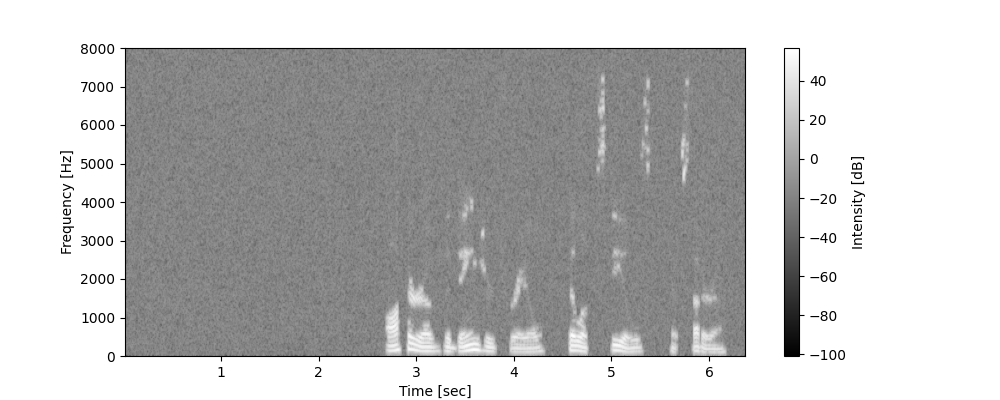
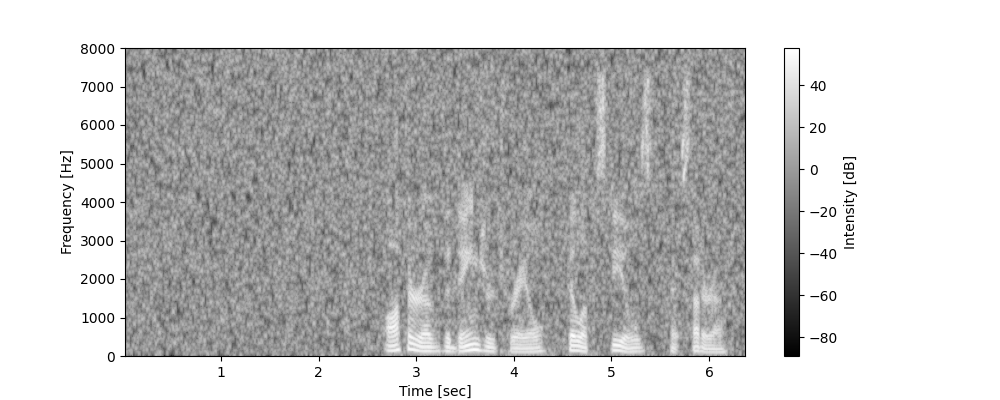
ウィナーフィルターを実装

diff --git a/BodyExpendReserch/開発/ウィーナーフィルタ.py b/BodyExpendReserch/開発/ウィーナーフィルタ.py
@@ -1,0 +1,126 @@
+import wave as wave
+import numpy as np
+import scipy.signal as sp
+import matplotlib.pyplot as plt
+import sounddevice as sd
+#サンプルファイル読み込み
+sample_wave_file = "./CMU_ARCTIC/cmu_us_aew_arctic/wav/arctic_a0001.wav"
+
+#ファイル読み込み
+wav = wave.open(sample_wave_file)
+
+#PCM形式の波形データ読み込み
+data = wav.readframes(wav.getnframes())
+
+#dataを2バイトの数値列に変換
+data = np.frombuffer(data, dtype=np.int16)
+
+sampling_rate = wav.getframerate()
+
+speech_signal = data
+
+n_speech = wav.getnframes()
+
+#音声データに白色雑音を乗せる
+
+#白色雑音のサンプル数を設定
+n_noise_only = 40000
+
+#全体の長さ
+n_sample = n_speech + n_noise_only
+
+#白色雑音の生成
+wgn_signal = np.random.normal(scale = 0.04, size = n_sample)
+
+#2培地のデータとして書き込むためにスケールを調整
+wgn_signal = wgn_signal * np.iinfo(np.int16).max
+
+#2バイトのデータに変換
+wgn_signal = wgn_signal.astype(np.int16)
+
+#白色雑音を混ぜる
+mix_signal = wgn_signal
+mix_signal[n_noise_only:]+= speech_signal
+
+#再生する
+sd.play(mix_signal,wav.getframerate())
+
+print("再生開始")
+
+status = sd.wait()
+
+#短時間フーリエ変換を行う
+f,t,stft_data = sp.stft(mix_signal, fs=wav.getframerate(),window="hann", nperseg =512, noverlap=256)
+
+#入力信号の振幅を取得
+amp = np.abs(stft_data)
+
+#入力信号のパワーを取得
+input_power = np.power(amp,2.0)
+
+#雑音区間のフレーム数
+n_noise_only_frame = np.sum(t<(n_noise_only / sampling_rate))
+
+#ウィナーフィルタのパラメータ
+alpha=1.0
+mu=10
+
+#雑音のパワーを推定
+noise_power = np.mean(np.power(amp,2.0)[:,:n_noise_only_frame], axis=1,keepdims=True)
+
+#入力信号の音量を1パーセント下回らないようにする
+eps = 0.01*input_power
+
+#出力信号の振幅を計算する
+processed_power = np.maximum(input_power - alpha * noise_power, eps)
+
+#比率
+wf_ratio = processed_power / (processed_power + mu*noise_power)
+
+#出力信号の振幅に入力信号の位相を掛ける
+processed_stft_data = wf_ratio * stft_data
+
+#時間領域の波形に戻す
+t, processed_data_post = sp.istft(processed_stft_data,fs = wav.getframerate(), window = "hann", nperseg = 512, noverlap = 256)
+#wavファイルに書き込む
+#wave_out = wave.open("./istft_post_wave.wav", "w")
+#wave_out.setnchannels(1)
+#wave_out.setsampwidth(2)
+#wave_out.setframerate(wav.getframerate())
+#wave_out.writeframes(data_post)
+#wave_out.close()
+
+#2バイトのデータに変換
+processed_data_post = processed_data_post.astype(np.int16)
+
+
+#再生する
+sd.play(processed_data_post,wav.getframerate())
+
+print("ウィナー処理後音声再生開始")
+
+status = sd.wait()
+
+#スペクトログラムをプロットする
+fig=plt.figure(figsize=(10,4))
+
+#スペクトログラムを表示する
+spectrum,  freqs, t, im=plt.specgram(processed_data_post,NFFT=512,noverlap=512//16*15,Fs=wav.getframerate(),cmap="gray")
+
+#カラーバーを表示する
+fig.colorbar(im).set_label('Intensity [dB]')
+
+#x軸のラベル
+plt.xlabel("Time [sec]")
+
+#y軸のラベル
+plt.ylabel("Frequency [Hz]")
+
+#音声ファイルを画像として保存
+plt.savefig("./spectrogram_ss_result.png")
+
+#画像を画面に表示
+plt.show()
+
+wav.close()
+

diff --git a/BodyExpendReserch/開発/耳能力方向拡張開発.md b/BodyExpendReserch/開発/耳能力方向拡張開発.md
@@ -15,9 +15,11 @@
 - python 3.9
 - 各ライブラリを下記コマンドでpipから落とす
   - py -3.9 -m pip install numpy
-  - py -3.9 -m pip install scipy
+  - py pip install scipy
   - py -3.9 -m pip install matplotlib
   - py -3.9 -m pip install sounddevice
   - py -3.9 -m pip install pyroomacoustics
   - py -3.9 -m pip install nara-wpe
 
+## pythonの行列
+- http://www.me.cit.nihon-u.ac.jp/lab/yanagisawa/for_student/robobe2_1.html
